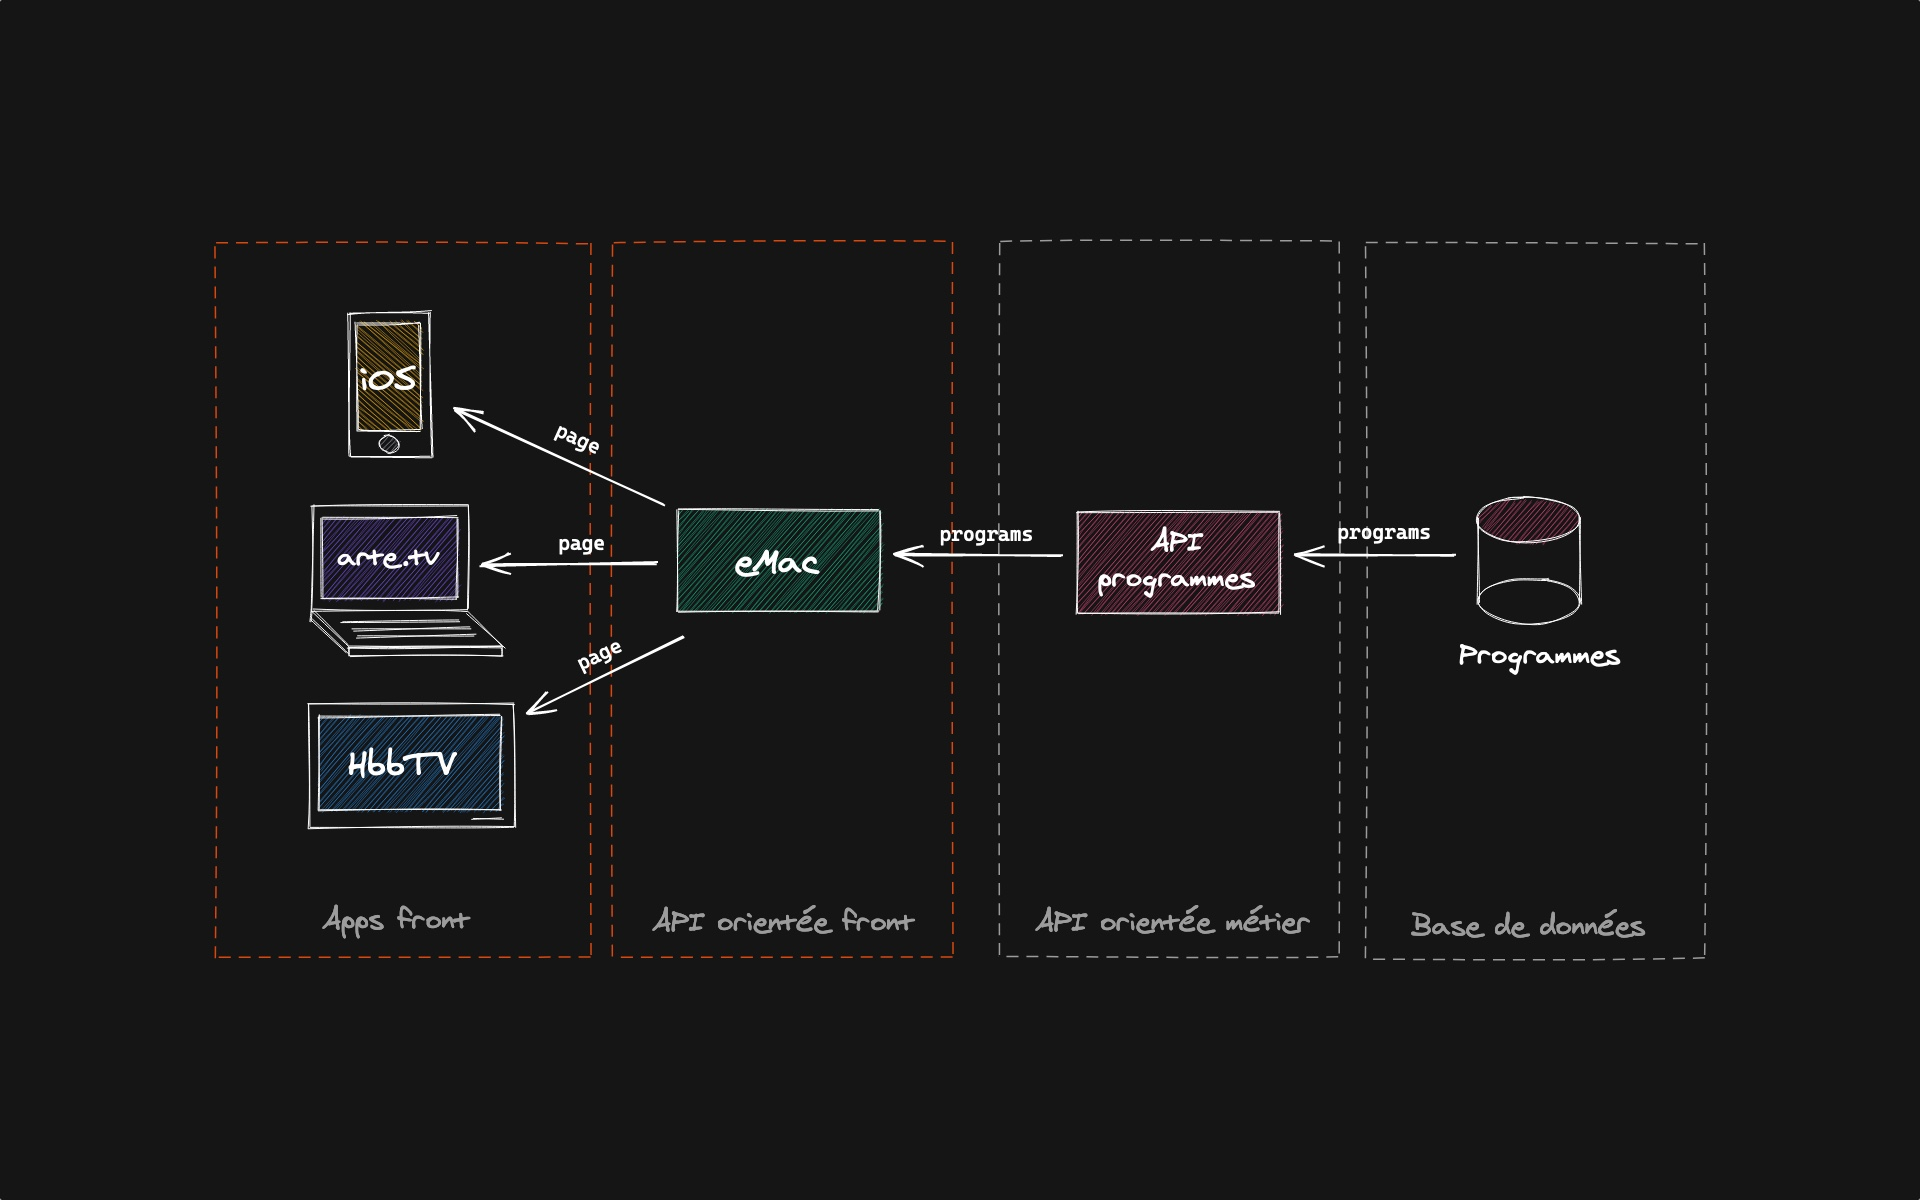
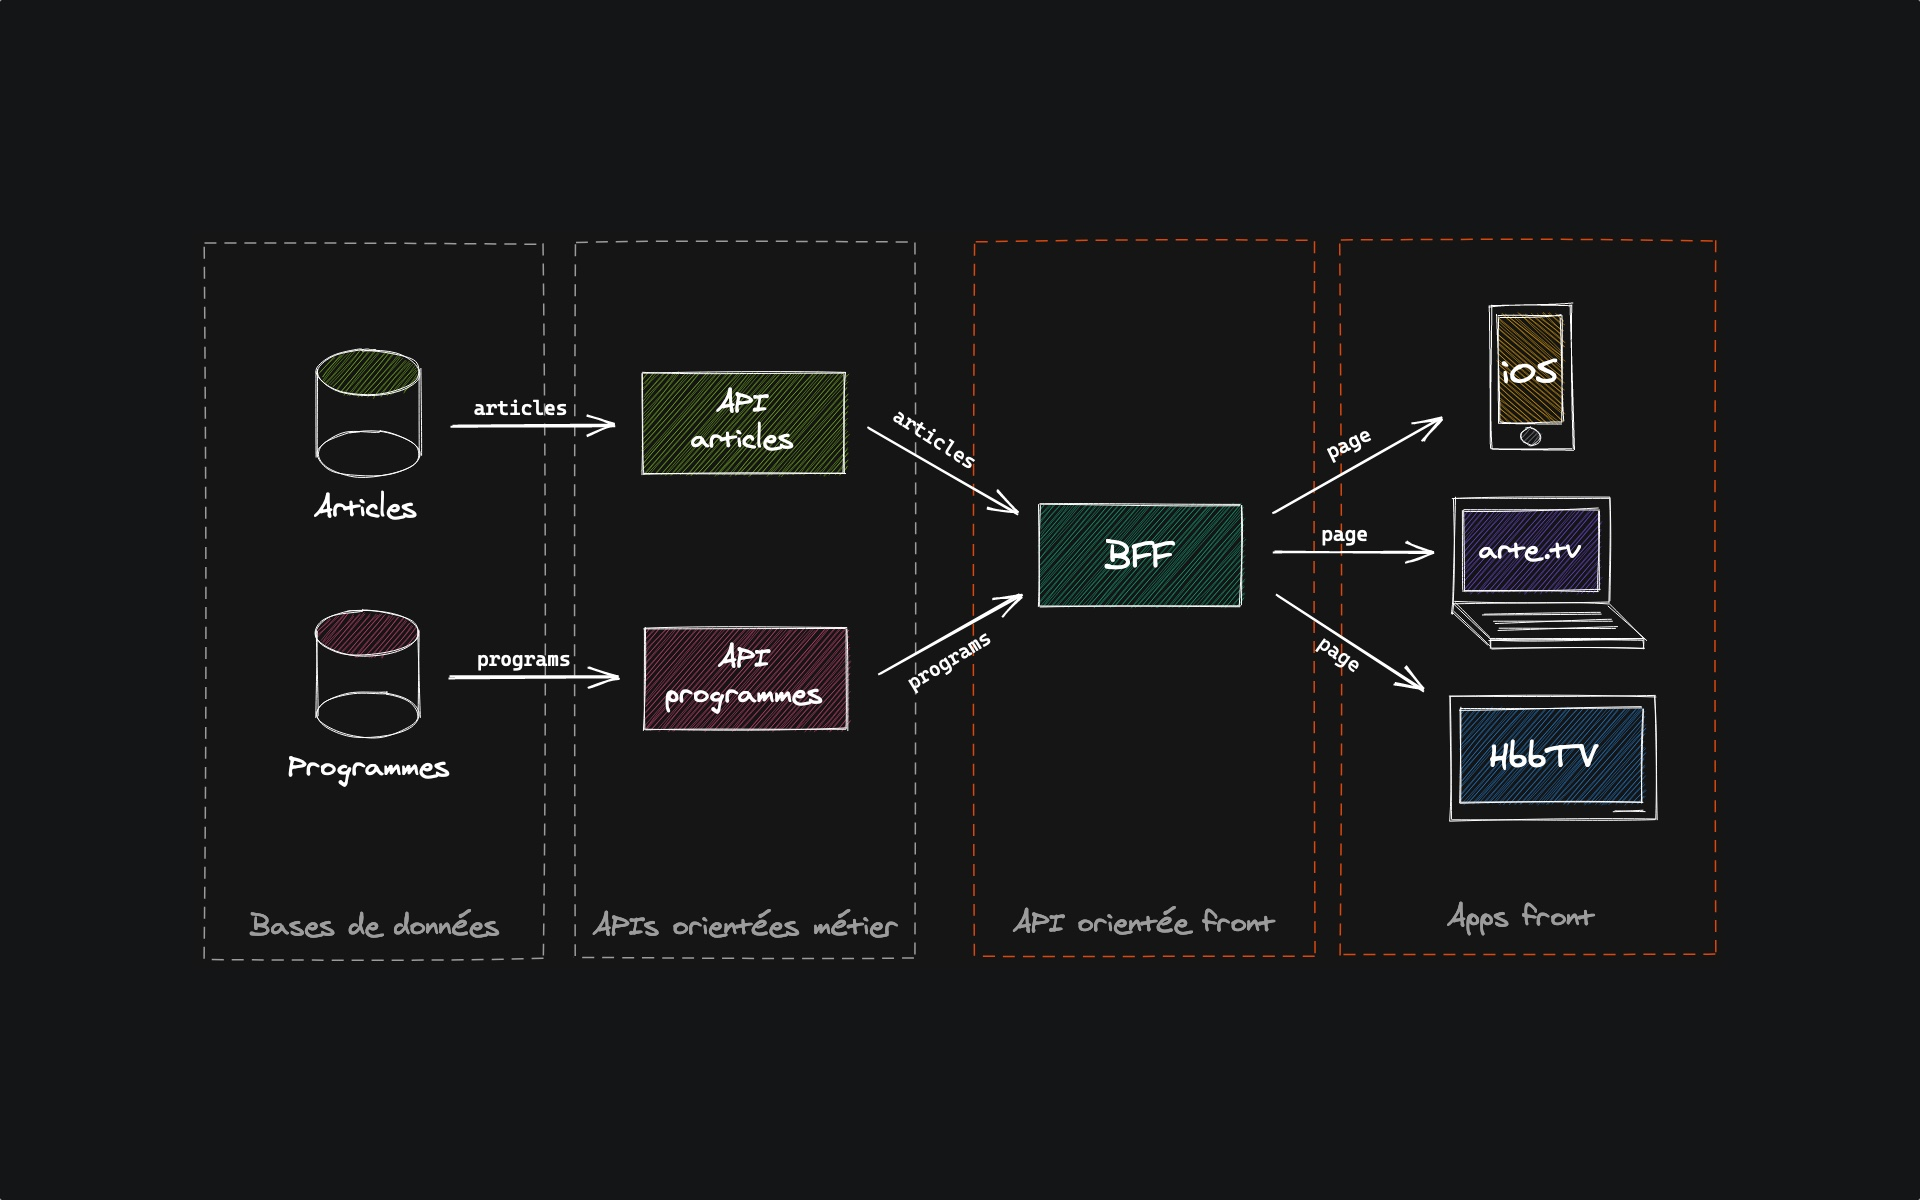
Deploying to gh-pages from  @ 4acf9088cd1afcdedecac6e07a9a3f0d9717bb92 🚀

diff --git a/index.html b/index.html
@@ -59,7 +59,7 @@ Chaque plateforme dispose de ses propres codes et contraintes
 </script></section><section  data-markdown><script type="text/template">
 ### Approche orientée métier
 
-La structure des première APIs d'ARTE reflète les entités de la base de données
+La structure des premières APIs d'ARTE reflète les entités de la base de données
 
 - un endpoint par type d'entité (vidéos, collections, ...)
 - un même endpoint peut servir pour plusieurs cas d'utilisation
@@ -93,7 +93,7 @@ https://www.arte.tv/api/videos?sort=-availabilityDate
 </script></section><section  data-markdown><script type="text/template">
 ### Une API orientée front (ou BFF)
 
-L'API front n'est pas un reflet de la base de données mais un reflet de l'application front
+Le BFF (ou Back-end For Front-end) n'est pas un reflet de la base de données mais un reflet de l'application front
 
 - renvoie des objets `page` consolidés
 - récupère les données auprès des APIs orientées métier
@@ -147,7 +147,7 @@ GraphQL semble plus adapté à une API ouverte qu'à une API spécialisée
 </script></section><section  data-markdown><script type="text/template">
 ### En facilitant la vie des développeurs front
 
-- une seule API à maitriser
+- une seule API à maîtriser
 - routing simple et peu de paramètres
 - plus besoin de se soucier des problématiques métier
 </script></section><section  data-markdown><script type="text/template">
@@ -170,7 +170,7 @@ GraphQL semble plus adapté à une API ouverte qu'à une API spécialisée
 
 ## Pour finir...
 </script></section><section  data-markdown><script type="text/template">
-### Un travail collaboratif
+### eMac est le fruit d'une collaboration entre ARTE et Marmelab
 
 - 3 développeurs du côté de Marmelab
 - 2 chefs de projet du côté d'ARTE
@@ -183,7 +183,7 @@ Une équipe proche du front, orientée web mais en concertation régulière avec
 - ARTE’s API strategy & architecture - Matthieu BREEN : https://www.youtube.com/watch?v=bsCOU7131lM
 - 6play_API-v2-Final(1).doc - Benoit VIGUIER : https://www.youtube.com/watch?v=Y_umU8mTWho
 </script></section><section  data-markdown><script type="text/template">
-## Merci de nous avoir écouté !
+## Merci de nous avoir écoutés !
 
 Des questions ?
 </script></section></div>

diff --git a/slides.html b/slides.html
@@ -59,7 +59,7 @@ Chaque plateforme dispose de ses propres codes et contraintes
 </script></section><section  data-markdown><script type="text/template">
 ### Approche orientée métier
 
-La structure des première APIs d'ARTE reflète les entités de la base de données
+La structure des premières APIs d'ARTE reflète les entités de la base de données
 
 - un endpoint par type d'entité (vidéos, collections, ...)
 - un même endpoint peut servir pour plusieurs cas d'utilisation
@@ -93,7 +93,7 @@ https://www.arte.tv/api/videos?sort=-availabilityDate
 </script></section><section  data-markdown><script type="text/template">
 ### Une API orientée front (ou BFF)
 
-L'API front n'est pas un reflet de la base de données mais un reflet de l'application front
+Le BFF (ou Back-end For Front-end) n'est pas un reflet de la base de données mais un reflet de l'application front
 
 - renvoie des objets `page` consolidés
 - récupère les données auprès des APIs orientées métier
@@ -147,7 +147,7 @@ GraphQL semble plus adapté à une API ouverte qu'à une API spécialisée
 </script></section><section  data-markdown><script type="text/template">
 ### En facilitant la vie des développeurs front
 
-- une seule API à maitriser
+- une seule API à maîtriser
 - routing simple et peu de paramètres
 - plus besoin de se soucier des problématiques métier
 </script></section><section  data-markdown><script type="text/template">
@@ -170,7 +170,7 @@ GraphQL semble plus adapté à une API ouverte qu'à une API spécialisée
 
 ## Pour finir...
 </script></section><section  data-markdown><script type="text/template">
-### Un travail collaboratif
+### eMac est le fruit d'une collaboration entre ARTE et Marmelab
 
 - 3 développeurs du côté de Marmelab
 - 2 chefs de projet du côté d'ARTE
@@ -183,7 +183,7 @@ Une équipe proche du front, orientée web mais en concertation régulière avec
 - ARTE’s API strategy & architecture - Matthieu BREEN : https://www.youtube.com/watch?v=bsCOU7131lM
 - 6play_API-v2-Final(1).doc - Benoit VIGUIER : https://www.youtube.com/watch?v=Y_umU8mTWho
 </script></section><section  data-markdown><script type="text/template">
-## Merci de nous avoir écouté !
+## Merci de nous avoir écoutés !
 
 Des questions ?
 </script></section></div>
